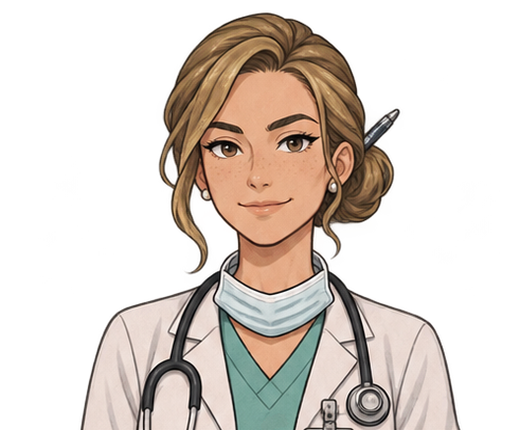
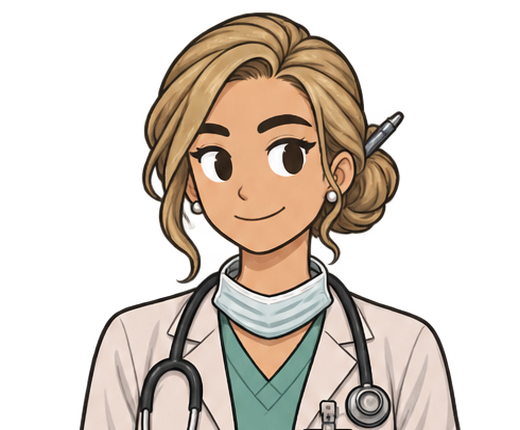
Simplifica rosto do colega e da Dra. Nathalia e fixa o traço da Emily como padrão de personagem

diff --git a/tools/arte/galeria/modelo.html b/tools/arte/galeria/modelo.html
@@ -111,7 +111,7 @@ textarea { width: 100%; min-height: 140px; font: 14px/1.5 var(--mono); color: va
 
 <script>
 const DADOS = /*DADOS*/null;
-const CHAVE = "assets-revisao-v3";
+const CHAVE = "assets-revisao-v4";
 let marcados = new Set(), notas = "";
 try { const s = JSON.parse(localStorage.getItem(CHAVE) || "{}"); marcados = new Set(s.m || []); notas = s.n || ""; } catch (e) {}
 function guardar() { try { localStorage.setItem(CHAVE, JSON.stringify({ m: [...marcados], n: notas })); } catch (e) {} }

diff --git a/tools/arte/montar_saude_v5_rostos.py b/tools/arte/montar_saude_v5_rostos.py
@@ -1,0 +1,57 @@
+"""Lote 5 da Saúde: rosto simplificado do colega de república e da Dra. Nathalia (feedback de 2026-11-02).
+
+Feedback: "Ficaram bons, mas acho que um pouco detalhados demais, especialmente na parte do rosto e olhos. Veja a
+Emily como exemplo a ser seguido ou outros personagens dos outros arcos."
+
+Diferença observada no close-up: Emily, Tainá, Kauã e Dra. Michelle têm pele chapada de 1 tom, olhos com íris
+escura simples e um brilho, nariz em traço curto e boca em forma simples. A versão do lote 4 tinha íris detalhada,
+cílios, sardas, batom, sombra no nariz e, no colega, rugas e textura de barba.
+
+Refaz as duas âncoras (a imagem do lote 4 entra como identidade e roupa; docs/arte/referencias/estilo-c-rostos.png,
+com os 4 rostos de exemplo, entra como referência do rosto) e as 3 poses da Nathalia sobre a âncora nova, com os
+mesmos prompts de pose do lote 4. Gera docs/arte/prompts/estilo-c-saude-v5-rostos.json; as saídas são as do lote 4
+(estilo-c-saude-v4-saidas.json, filtradas pelos ids deste lote). Rode a partir da raiz:
+    python tools/arte/montar_saude_v5_rostos.py
+"""
+import json, os
+
+RAIZ = os.path.abspath(os.path.join(os.path.dirname(__file__), "..", ".."))
+CH = os.path.join(RAIZ, "game", "images", "characters").replace("\\", "/")
+REF = os.path.join(RAIZ, "docs", "arte", "referencias").replace("\\", "/")
+PROMPTS = os.path.join(RAIZ, "docs", "arte", "prompts")
+
+ROSTO = (
+    "ROSTO NO TRAÇO DA EMILY E DOS OUTROS ROSTOS DA IMAGEM DE REFERÊNCIA DE ROSTO: pele chapada de um tom só com no "
+    "máximo uma sombra simples, sem textura, sem sardas, sem rugas, sem marcas de expressão; olhos com íris escura "
+    "simples e um único brilho branco, cílios só como um traço grosso na pálpebra de cima, sem maquiagem desenhada; "
+    "nariz como um traço curto; boca em forma simples, sem batom nem lábios detalhados; sobrancelhas como uma faixa "
+    "escura grossa. Barba, quando houver, como uma mancha lisa de um tom, sem fios. "
+)
+
+v4 = {t["id"]: t for t in json.load(open(os.path.join(PROMPTS, "estilo-c-saude-v4.json"), encoding="utf-8"))}
+# O ESTILO do lote 4 pedia "maçãs do rosto e mandíbula definidas", o que puxou o rosto para o detalhado.
+ROSTO_V4 = ("Rosto de adulto: olhos de tamanho natural (não olhos grandes de anime), maçãs do rosto e mandíbula "
+            "definidas, sobrancelhas marcadas e expressivas.")
+ROSTO_V5 = "Rosto de adulto no traço simples da Emily: a idade aparece no formato do rosto e no cabelo, não em detalhes."
+for t in v4.values():
+    assert ROSTO_V4 in t["prompt"], t["id"]
+    t["prompt"] = t["prompt"].replace(ROSTO_V4, ROSTO_V5)
+ROSTOS = f"{REF}/estilo-c-rostos.png"
+
+tarefas = []
+for tid in ("amigo__base", "doutora_2__neutral"):
+    cid, pose = tid.split("__")
+    prompt = (f"{ROSTO}A PRIMEIRA imagem é a versão atual: mantenha a identidade, o cabelo, o corpo adulto, a roupa, "
+              f"os acessórios, as cores e a pose; mude SÓ o traço do rosto (e deixe-o tão simples quanto o da segunda "
+              f"imagem). A SEGUNDA imagem mostra rostos de outros personagens do jogo, como referência de traço (não "
+              f"copie as pessoas).\n\n" + v4[tid]["prompt"].split("\n\n", 1)[1])
+    tarefas.append({"id": tid, "prompt": prompt, "refs": [f"{CH}/{cid}/{pose}.png", ROSTOS]})
+
+for pose in ("serious", "thinking", "positive"):
+    t = dict(v4[f"doutora_2__{pose}"])
+    t["prompt"] = ROSTO + t["prompt"].replace("sardas, ", "")
+    tarefas.append(t)
+
+json.dump(tarefas, open(os.path.join(PROMPTS, "estilo-c-saude-v5-rostos.json"), "w", encoding="utf-8"),
+          ensure_ascii=False, indent=1)
+print(len(tarefas), "tarefas:", [t["id"] for t in tarefas])

diff --git a/tools/arte/estilo_padrao.py b/tools/arte/estilo_padrao.py
@@ -1,0 +1,37 @@
+"""Padrão de personagem do jogo: o traço da Emily (developer_requirements). Decisão do usuário em 2026-11-02.
+
+Todo lote novo de personagens importa daqui o texto de estilo e as referências, em vez de reescrever o seu.
+Explicação e histórico em docs/arte/README.md, seção "Referência padrão: a Emily".
+"""
+import os
+
+RAIZ = os.path.abspath(os.path.join(os.path.dirname(__file__), "..", ".."))
+REF = os.path.join(RAIZ, "docs", "arte", "referencias").replace("\\", "/")
+
+# Anexe sempre REF_EMILY como referência de estilo; anexe REF_ROSTOS quando o rosto importar (personagem novo,
+# redesenho, expressões). As duas são só de traço: o prompt deve dizer "não copie as pessoas".
+REF_EMILY = f"{REF}/estilo-c-emily.png"
+REF_ROSTOS = f"{REF}/estilo-c-rostos.png"  # Emily, Tainá, Kauã e Dra. Michelle, cabeça e ombros
+
+CORPO = (
+    "Estilo C, IGUAL ao da Emily: proporção de ADULTO com ~7,5 cabeças, cabeça proporcional, ombros e mãos naturais; "
+    "roupas com costuras, dobras e sombras suaves de 1 tom; contorno escuro com leve textura de lápis; cores suaves e "
+    "levemente dessaturadas. Nem realista (sem textura de foto, sem anatomia detalhada) nem cartunesco (sem cabeça "
+    "grande, sem olhos enormes)."
+)
+
+ROSTO = (
+    "ROSTO NO TRAÇO DA EMILY: pele chapada de um tom só com no máximo uma sombra simples, sem textura, sem sardas, "
+    "sem rugas, sem marcas de expressão; olhos com íris escura simples e um único brilho branco, cílios só como um "
+    "traço grosso na pálpebra de cima, sem maquiagem desenhada; nariz como um traço curto; boca em forma simples, "
+    "sem batom nem lábios detalhados; sobrancelhas como uma faixa escura grossa, que carrega a expressão. Barba, "
+    "quando houver, como uma mancha lisa de um tom, sem fios. A idade aparece no formato do rosto, no cabelo e na "
+    "roupa, não em detalhes do rosto."
+)
+
+SPRITE = (
+    "Sprite de visual novel: corpo inteiro em pé, do topo da cabeça aos pés, centralizado, fundo totalmente "
+    "transparente (PNG com alfa), sem sombra no chão, sem texto, retrato 2:3."
+)
+
+ESTILO = f"{CORPO} {ROSTO} {SPRITE}"

diff --git a/tools/arte/galeria/gerar_galeria.py b/tools/arte/galeria/gerar_galeria.py
@@ -42,8 +42,8 @@ NOTAS = {
     "developer_project": "Revisado: relógio e notebook; expressões por pose.",
     "developer_security": "Revisado: sobrecamisa e crachá de acesso; expressões por pose.",
     "doutora_1": "Revisado: crachá do Instituto e prancheta. Novas expressões: séria (preocupada), pensativa e positiva.",
-    "doutora_2": "Refeita como médica de ~32 anos: coque com caneta, sardas, pijama cirúrgico verde-água, máscara abaixada e tablet. Novas expressões: séria, pensativa e positiva.",
-    "amigo": "Refeito como adulto de ~26 anos (mestrando): barba por fazer, camiseta de time de bairro, fone no pescoço, chinelo e caneca.",
+    "doutora_2": "Refeita como médica de ~32 anos: coque com caneta, pijama cirúrgico verde-água, máscara abaixada e tablet. Rosto simplificado no traço da Emily. Expressões: séria, pensativa e positiva.",
+    "amigo": "Refeito como adulto de ~26 anos (mestrando), com camiseta de time de bairro, fone no pescoço, chinelo e caneca. Rosto simplificado no traço da Emily.",
 }
 CONTA = {}
 usados = {}

diff --git a/tools/arte/rostos.py b/tools/arte/rostos.py
@@ -1,0 +1,17 @@
+"""Close-up dos rostos (topo de cada sprite) lado a lado. Uso: python rostos.py saida.png img1 img2 ..."""
+import sys
+from PIL import Image
+
+crops = []
+for f in sys.argv[2:]:
+    im = Image.open(f).convert("RGBA")
+    x0, y0, x1, _ = im.getchannel("A").point(lambda a: 255 if a > 24 else 0).getbbox()
+    cx = (x0 + x1) // 2
+    c = im.crop((cx - 160, y0 - 10, cx + 160, y0 + 330)).resize((480, 510), Image.LANCZOS)
+    crops.append(c)
+s = Image.new("RGBA", (sum(c.width + 10 for c in crops) + 10, 530), (128, 128, 128, 255))
+x = 10
+for c in crops:
+    s.alpha_composite(c, (x, 10))
+    x += c.width + 10
+s.convert("RGB").save(sys.argv[1])

diff --git a/docs/arte/README.md b/docs/arte/README.md
@@ -15,6 +15,37 @@ https://claude.ai/artifact/4wNJSGy4HhqwEEcpALx8X1
 - **Referências de estilo** (as imagens aprovadas) em `referencias/`: `estilo-c-emily.png`, `estilo-c-taina.png`,
   `estilo-c-escritorio.png`. Toda geração nova anexa uma delas.
 
+## Referência padrão: a Emily
+
+Decisão do usuário em 2026-11-02, depois de quatro rodadas de revisão do elenco da Saúde: **o traço da Emily
+(`developer_requirements`) é o padrão de todo personagem**, novo ou refeito. Os personagens das rotas novas
+(Tainá, Kauã etc.) seguem o mesmo traço e servem de apoio.
+
+O texto e as referências ficam em `tools/arte/estilo_padrao.py` (`CORPO`, `ROSTO`, `SPRITE`, `ESTILO`, `REF_EMILY`,
+`REF_ROSTOS`). Um script de lote novo importa de lá em vez de escrever o próprio estilo:
+
+```python
+from estilo_padrao import ESTILO, REF_EMILY, REF_ROSTOS
+```
+
+O que as revisões ensinaram (cada item foi um problema real apontado pelo usuário):
+
+- **Rosto simples é o que mais pesa.** Pele chapada de um tom, íris escura simples com um brilho, nariz em traço,
+  boca em forma simples, sobrancelha grossa. Sardas, cílios desenhados, batom, sombra no nariz, rugas e textura de
+  barba deixam o personagem "detalhado demais" ao lado da Emily. Pedir "maçãs do rosto e mandíbula definidas" puxou
+  o rosto para esse lado; a idade deve vir do formato do rosto, do cabelo e da roupa.
+- **Proporção de adulto (~7,5 cabeças).** Sem isso, o gerador volta à cabeça grande e ao corpo de criança
+  (aconteceu com o colega de república).
+- **Expressão está nas sobrancelhas e nos olhos.** Em cada pose, descreva sobrancelhas, olhos, direção do olhar e
+  boca, e anexe como referência de expressão a mesma pose de um personagem das rotas novas. Pedir só "a pose da
+  imagem X" fez o gerador copiar o rosto da âncora em todas as poses.
+- **Um acessório de personalidade** (crachá, relógio, caneca, mochila, pasta, brinco) ajuda a não ficar genérico.
+- **Objeto na mão precisa caber na pose.** Com braços cruzados, o objeto vai para o bolso.
+
+`referencias/estilo-c-rostos.png` mostra cabeça e ombros de Emily, Tainá, Kauã e Dra. Michelle lado a lado. É a
+referência para o rosto. Para refazer o close-up com outros personagens:
+`python tools/arte/rostos.py saida.png img1.png img2.png ...`.
+
 ## Lotes e prompts (`prompts/`)
 
 | Arquivo | O que gerou | Situação |
@@ -25,7 +56,8 @@ https://claude.ai/artifact/4wNJSGy4HhqwEEcpALx8X1
 | `estilo-c-regeracoes.json` | 5 imagens refeitas do lote acima (2 com reforço de identidade/transparência, 3 que tinham nascido de uma âncora trocada) | aplicado junto com o lote |
 | `estilo-c-saude-v2.json` | elenco da Saúde refeito na proporção e no detalhe da Emily e das rotas novas, com um acessório de personalidade por personagem (1ª revisão do usuário) | aplicado; montado por `tools/arte/montar_saude_v2.py`; refeitas em `estilo-c-saude-v2-regeracoes.json` |
 | `estilo-c-saude-v3-expressoes.json` | todas as poses não âncora da Saúde com o rosto descrito por partes e referência de expressão das rotas novas (2ª revisão: "olhos quase não mudam") | aplicado; montado por `tools/arte/montar_saude_v3_expressoes.py`; Joseph e Mateus refeitos em `estilo-c-saude-v3-regeracoes.json` |
-| `estilo-c-saude-v4.json` | colega de república e Dra. Nathalia refeitos como adultos com traços próprios; poses serious, thinking e positive novas para as duas doutoras; César sério com o celular no bolso (3ª revisão) | aplicado; montado por `tools/arte/montar_saude_v4.py` |
+| `estilo-c-saude-v4.json` | colega de república e Dra. Nathalia refeitos como adultos com traços próprios; poses serious, thinking e positive novas para as duas doutoras; César sério com o celular no bolso (3ª revisão) | aplicado; montado por `tools/arte/montar_saude_v4.py`; colega e Nathalia substituídos pelo lote seguinte |
+| `estilo-c-saude-v5-rostos.json` | rosto do colega e das 4 poses da Nathalia simplificado no traço da Emily (4ª revisão: "detalhados demais no rosto e olhos"); originou o padrão da seção "Referência padrão: a Emily" | aplicado; montado por `tools/arte/montar_saude_v5_rostos.py`; saídas em `estilo-c-saude-v5-rostos-saidas.json` |
 | `mapa.json` | mapa da cidade (E3b): base 16:9 sem os prédios, 12 lugares recortados (dependem da base), 8 ícones de atividade, o marcador "Você" e 6 telas de transição (28 tarefas) | aplicado (refeitas em `mapa-regeracoes.json`; posições finais em `mapa-coordenadas-ajustadas.json`); montado por `tools/arte/montar_mapa.py`; design em `docs/design/mapa-cidade.md`; saídas com os kinds novos `mapa`, `lugar` e `icone` de `posproc.py` |
 
 ## Cuidado com execuções em paralelo
